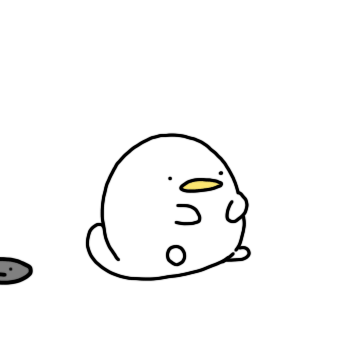
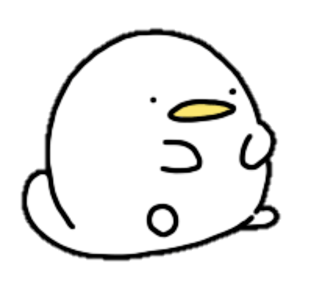
플레이어움직일시 애니메이션추가.

Changed region(s): [[0.0, 0.0912, 0.9114, 0.9122], [0.3133, 0.6993, 0.3418, 0.7297]]

diff --git a/BrainGame.html b/BrainGame.html
@@ -27,7 +27,9 @@
     var playerDx = 0;
     var playerDy = 0;
     var playerHead = 1;
-    var playerMoveTime = 0;
+    var playerMoveTime = 10;
+    var playerMoveAction = 1;
+    var playerMoveActionSpeed = 4;
     var time = 0;
     var vecJump = 0;
     var platforms = [];
@@ -35,6 +37,55 @@
     var gamePause = 0;
     var round = 0;
     var win = 1;
+
+
+    var playerRightMoveImages = [];
+    playerRightMoveImages[0] = new Image();
+    playerRightMoveImages[0].src = "resources/oguPng/ogu0.png";
+    playerRightMoveImages[1] = new Image();
+    playerRightMoveImages[1].src = "resources/oguPng/ogu1.png";
+    playerRightMoveImages[2] = new Image();
+    playerRightMoveImages[2].src = "resources/oguPng/ogu2.png";
+    playerRightMoveImages[3] = new Image();
+    playerRightMoveImages[3].src = "resources/oguPng/ogu3.png";
+    playerRightMoveImages[4] = new Image();
+    playerRightMoveImages[4].src = "resources/oguPng/ogu4.png";
+    playerRightMoveImages[5] = new Image();
+    playerRightMoveImages[5].src = "resources/oguPng/ogu5.png";
+    playerRightMoveImages[6] = new Image();
+    playerRightMoveImages[6].src = "resources/oguPng/ogu6.png";
+    playerRightMoveImages[7] = new Image();
+    playerRightMoveImages[7].src = "resources/oguPng/ogu7.png";
+    playerRightMoveImages[8] = new Image();
+    playerRightMoveImages[8].src = "resources/oguPng/ogu8.png";
+    playerRightMoveImages[9] = new Image();
+    playerRightMoveImages[9].src = "resources/oguPng/ogu9.png";
+
+    var playerLeftMoveImages = [];
+    playerLeftMoveImages[0] = new Image();
+    playerLeftMoveImages[0].src = "resources/oguPng/ogu0-1.png";
+    playerLeftMoveImages[1] = new Image();
+    playerLeftMoveImages[1].src = "resources/oguPng/ogu1-1.png";
+    playerLeftMoveImages[2] = new Image();
+    playerLeftMoveImages[2].src = "resources/oguPng/ogu2-1.png";
+    playerLeftMoveImages[3] = new Image();
+    playerLeftMoveImages[3].src = "resources/oguPng/ogu3-1.png";
+    playerLeftMoveImages[4] = new Image();
+    playerLeftMoveImages[4].src = "resources/oguPng/ogu4-1.png";
+    playerLeftMoveImages[5] = new Image();
+    playerLeftMoveImages[5].src = "resources/oguPng/ogu5-1.png";
+    playerLeftMoveImages[6] = new Image();
+    playerLeftMoveImages[6].src = "resources/oguPng/ogu6-1.png";
+    playerLeftMoveImages[7] = new Image();
+    playerLeftMoveImages[7].src = "resources/oguPng/ogu7-1.png";
+    playerLeftMoveImages[8] = new Image();
+    playerLeftMoveImages[8].src = "resources/oguPng/ogu8-1.png";
+    playerLeftMoveImages[9] = new Image();
+    playerLeftMoveImages[9].src = "resources/oguPng/ogu9-1.png";
+
+
+
+
     var playerHoldImgLeft = new Image();
     var playerHoldImgRight = new Image();
     playerHoldImgRight.src = "resources/oguPng/ogu11.png";
@@ -48,14 +99,25 @@
         jump();
         collision();
         drawPlayer();
+
+        if(playerDx !== 0){
+            playerMoveAction++;
+            if(playerMoveAction > playerMoveActionSpeed){
+                playerMoveAction = 0;
+                playerMoveTime++;
+            }
+            console.log(playerMoveTime);
+        }
     }
     function drawPlayer() {
         var x = playerX += 5*playerDx;
         var y = playerY += playerDy;
         if(playerHead === 1){
-            draw.drawImage(playerHoldImgRight,x-20,y-20,50,45);
+            draw.drawImage(playerRightMoveImages[playerMoveTime % 10],x-20,y-20,50,45);
+            //draw.drawImage(playerHoldImgRight,x-20,y-20,50,45);
         } else {
-            draw.drawImage(playerHoldImgLeft,x-20,y-20,50,45);
+            draw.drawImage(playerLeftMoveImages[playerMoveTime % 10],x-20,y-20,50,45);
+            //draw.drawImage(playerHoldImgLeft,x-20,y-20,50,45);
         }
 
         draw.fill();
@@ -243,7 +305,7 @@
             platformPush(1300,288);
             platformPushType(1298,160,9);
         }
-        if(round === 2){2
+        if(round === 2){
             platformPush(410,806);
             platformPush(575,715);
             platformPush(779,615);
